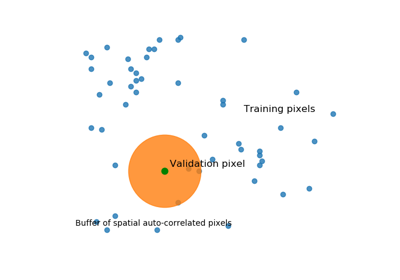
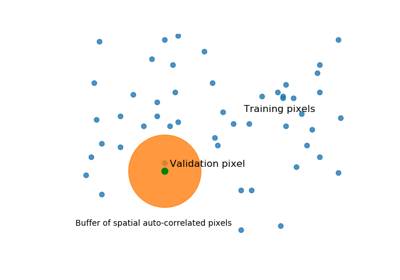
Fix random seed

diff --git a/museotoolbox/crossValidation/crossValidationClass.py b/museotoolbox/crossValidation/crossValidationClass.py
@@ -133,8 +133,6 @@ class distanceCV:
             while completeTrain is False:
                 if self.nTries < 100:
                     emptyTrain = False
-
-                    np.random.seed(self.random_state)
                     #self.random_state += 1
                     if self.verbose:
                         print(53 * '=')
@@ -165,6 +163,7 @@ class distanceCV:
                             currentCT = np.logical_and(
                                 self.y == C, self.mask == 1)
 
+                        np.random.seed(self.random_state)
                         self.ROI = np.random.permutation(
                             np.where(currentCT)[0])[0]
                         # When doing Leave-One-Out per subgroup
@@ -175,6 +174,7 @@ class distanceCV:
                                       ' for label ' +
                                       str(C))
 
+                            np.random.seed(self.random_state)
                             self.ROI = np.random.permutation(CT)[0]
                             # Tstand = self.distanceLabel[np.isin(
                             #   self.distanceLabel, np.unique(self.groups[CT]))]
@@ -302,7 +302,6 @@ class randomPerClass:
         if self.iterPos < self.n_splits + 1:
             if self.iterPos % 2 == 1 and self.train_size == 0.5:
                 self.mask[:] = 1
-            np.random.seed(self.random_state)
             train, valid = [np.asarray(
                 [], dtype=int), np.asarray([], dtype=int)]
             for C in np.unique(self.y):
@@ -402,8 +401,6 @@ class groupCV:
                 Ycurrent = np.where(np.array(self.y) == C)[0]
                 Ystands = np.array(self.groups)[Ycurrent]
 
-                np.random.seed(self.random_state)
-                # Only choose an unselected stand
                 #YTF = np.array(self.y) == i
                 Ystand = np.unique(Ystands)
                 if len(Ystands[self.mask[Ycurrent]]) == 0:
@@ -412,6 +409,7 @@ class groupCV:
                     self.mask[:] = 1
 
                 if self.valid_size == 1:
+                    np.random.seed(self.random_state)
                     selectedStand = np.random.permutation(
                         Ystands[self.mask[Ycurrent]])[0]
 
@@ -419,9 +417,11 @@ class groupCV:
                     if self.valid_size == 0.5 and self.iterPos % 2 == 0:
                         # If 50%, real CV with train/valid reverse at next iter
                         # to valid/train
+                        np.random.seed(self.random_state)
                         selectedStand = np.random.permutation(
                             Ystands[self.mask[Ycurrent]])
                     else:
+                        np.random.seed(self.random_state)
                         selectedStand = np.random.permutation(
                             Ystand)[:int(len(Ystand) * self.valid_size)]
                 if self.verbose:

diff --git a/docs/source/auto_examples/learnTools/learnWithRFandRS50.py b/docs/source/auto_examples/learnTools/learnWithRFandRS50.py
@@ -38,8 +38,7 @@ classifier = RandomForestClassifier(random_state=12,n_jobs=-1)
 # Start learning
 # ---------------------------
 
-
-LAP = learnAndPredict(n_jobs=-1)
+LAP = learnAndPredict(n_jobs=1)
 LAP.learnFromRaster(raster,vector,field,cv=RS50,
                     classifier=classifier,param_grid=dict(n_estimators=[100,200]))
 

diff --git a/museotoolbox/crossValidation/_sampleSelection.py b/museotoolbox/crossValidation/_sampleSelection.py
@@ -14,9 +14,9 @@
 # =============================================================================
 
 from __future__ import absolute_import, print_function
+import os
 from .. import rasterTools, vectorTools
 from . import crossValidationClass
-import os
 import numpy as np
 
 

diff --git a/docs/source/auto_examples/learnTools/learnWithRFandCompareCV.rst b/docs/source/auto_examples/learnTools/learnWithRFandCompareCV.rst
@@ -115,26 +115,26 @@ Create list of different CV
     Fitting 5 folds for each of 2 candidates, totalling 10 fits
     best n_estimators : 100
     Kappa for RandomCV
-    0.946087457975
-    0.938072786994
-    0.946087457975
-    0.938072786994
-    0.946087457975
+    0.942644673136
+    0.943543076294
+    0.942644673136
+    0.943543076294
+    0.942644673136
     ====================
     Fitting 5 folds for each of 2 candidates, totalling 10 fits
-    best n_estimators : 200
+    best n_estimators : 100
     Kappa for LeavePSubGroupOut
-    0.706085856491
-    0.768551375852
-    0.706085856491
-    0.768551375852
-    0.706085856491
+    0.635516273208
+    0.785197425099
+    0.635516273208
+    0.785197425099
+    0.635516273208
     ====================
     Fitting 2 folds for each of 2 candidates, totalling 4 fits
-    best n_estimators : 100
+    best n_estimators : 200
     Kappa for LeaveOneSubGroupOut
-    0.820225947589
-    0.870793213473
+    0.850441056012
+    0.802295897628
     ====================
     Fitting 3 folds for each of 2 candidates, totalling 6 fits
     best n_estimators : 100
@@ -169,7 +169,7 @@ Plot example
 
 
 
-**Total running time of the script:** ( 0 minutes  28.654 seconds)
+**Total running time of the script:** ( 0 minutes  28.539 seconds)
 
 
 .. _sphx_glr_download_auto_examples_learnTools_learnWithRFandCompareCV.py:

diff --git a/docs/source/auto_examples/charts/plotConfusionAcc.rst b/docs/source/auto_examples/charts/plotConfusionAcc.rst
@@ -130,8 +130,8 @@ Get kappa from each fold
 
  .. code-block:: none
 
-    0.943624260619
-    0.941189905189
+    0.942788144685
+    0.943137435267
 
 
 Get each confusion matrix from folds
@@ -157,14 +157,14 @@ Get each confusion matrix from folds
  .. code-block:: none
 
     [[3681   77    2   11    0]
-     [  70 1064    1   12    0]
+     [  71 1064    1   11    0]
      [   0    0 1140    0    0]
-     [   8   22    3  230    0]
-     [   3    0    1    0    0]]
-    [[3693   67    1   10    0]
-     [  87 1044    0   15    0]
+     [   9   21    3  230    0]
+     [   4    0    0    0    0]]
+    [[3688   73    1    9    0]
+     [  79 1053    0   14    0]
      [   2    0 1137    0    0]
-     [  12   17    1  232    0]
+     [  13   17    1  231    0]
      [   4    0    0    0    0]]
 
 
@@ -225,7 +225,7 @@ Plot confusion matrix and normalize per class
 
 
 
-**Total running time of the script:** ( 0 minutes  2.917 seconds)
+**Total running time of the script:** ( 0 minutes  3.010 seconds)
 
 
 .. _sphx_glr_download_auto_examples_charts_plotConfusionAcc.py:

diff --git a/docs/source/auto_examples/charts/plotConfusionF1.rst b/docs/source/auto_examples/charts/plotConfusionF1.rst
@@ -129,8 +129,8 @@ Get kappa from each fold
 
  .. code-block:: none
 
-    0.943887334032
-    0.941668488805
+    0.942286542263
+    0.940921832904
 
 
 Get each confusion matrix from folds
@@ -156,14 +156,14 @@ Get each confusion matrix from folds
  .. code-block:: none
 
     [[3679   79    2   11    0]
-     [  70 1064    1   12    0]
+     [  65 1070    1   11    0]
      [   0    0 1140    0    0]
-     [   8   23    3  229    0]
-     [   3    1    0    0    0]]
-    [[3695   64    1   11    0]
-     [  86 1047    0   13    0]
+     [   9   20    3  231    0]
+     [   3    0    1    0    0]]
+    [[3685   74    1   11    0]
+     [  84 1047    0   15    0]
      [   2    0 1137    0    0]
-     [  12   17    1  232    0]
+     [  10   18    1  233    0]
      [   4    0    0    0    0]]
 
 
@@ -215,7 +215,7 @@ Plot confusion matrix and normalize per class
 
 
 
-**Total running time of the script:** ( 0 minutes  4.801 seconds)
+**Total running time of the script:** ( 0 minutes  4.252 seconds)
 
 
 .. _sphx_glr_download_auto_examples_charts_plotConfusionF1.py:

diff --git a/docs/source/auto_examples/charts/plotConfusion.rst b/docs/source/auto_examples/charts/plotConfusion.rst
@@ -128,8 +128,8 @@ Get kappa from each fold
 
  .. code-block:: none
 
-    0.943098549541
-    0.940662870654
+    0.942282216704
+    0.940897043243
 
 
 Get each confusion matrix from folds
@@ -155,14 +155,14 @@ Get each confusion matrix from folds
  .. code-block:: none
 
     [[3679   79    2   11    0]
-     [  72 1063    1   11    0]
+     [  69 1066    1   11    0]
      [   0    0 1140    0    0]
-     [   9   20    3  231    0]
+     [   8   21    3  231    0]
      [   4    0    0    0    0]]
-    [[3690   68    1   12    0]
-     [  83 1048    0   15    0]
+    [[3690   71    1    9    0]
+     [  82 1050    0   14    0]
      [   2    0 1137    0    0]
-     [  11   19    1  231    0]
+     [  12   18    1  231    0]
      [   4    0    0    0    0]]
 
 
@@ -212,7 +212,7 @@ Plot confusion matrix and normalize per class
 
 
 
-**Total running time of the script:** ( 0 minutes  6.836 seconds)
+**Total running time of the script:** ( 0 minutes  6.391 seconds)
 
 
 .. _sphx_glr_download_auto_examples_charts_plotConfusion.py:

diff --git a/docs/source/auto_examples/crossValidation/SpatialLeaveOnePixelOut.rst b/docs/source/auto_examples/crossValidation/SpatialLeaveOnePixelOut.rst
@@ -102,14 +102,14 @@ n_splits will be the number  of the least populated class
 
  .. code-block:: none
 
-    (9553,) (5,)
-    (9557,) (5,)
-    (9308,) (5,)
-    (9312,) (5,)
-    (8531,) (5,)
-    (8531,) (5,)
-    (10168,) (5,)
-    (10168,) (5,)
+    (10257,) (5,)
+    (9644,) (5,)
+    (9214,) (5,)
+    (9214,) (5,)
+    (8101,) (5,)
+    (8010,) (5,)
+    (9935,) (5,)
+    (9935,) (5,)
 
 
 Draw image
@@ -144,7 +144,7 @@ Draw image
 
 
 
-**Total running time of the script:** ( 0 minutes  1.328 seconds)
+**Total running time of the script:** ( 0 minutes  1.290 seconds)
 
 
 .. _sphx_glr_download_auto_examples_crossValidation_SpatialLeaveOnePixelOut.py:

diff --git a/docs/source/auto_examples/rasterTools/modalClass.rst b/docs/source/auto_examples/rasterTools/modalClass.rst
@@ -68,13 +68,13 @@ Initialize rasterMath with raster
 
  .. code-block:: none
 
-    [[ 69  69  41]
-     [119 119  91]
-     [141 141 113]
+    [[175 165 153]
+     [ 69  59  47]
+     [174 166 153]
      ..., 
-     [ 72  59  42]
-     [ 54  41  24]
-     [ 63  50  33]]
+     [197 191 179]
+     [127 123 114]
+     [168 165 160]]
 
 
 Let's suppose you want compute the modal classification between several predictions
@@ -151,7 +151,7 @@ Plot result
 
 
 
-**Total running time of the script:** ( 0 minutes  4.038 seconds)
+**Total running time of the script:** ( 0 minutes  4.545 seconds)
 
 
 .. _sphx_glr_download_auto_examples_rasterTools_modalClass.py:

diff --git a/docs/source/auto_examples/rasterTools/rasterMath.rst b/docs/source/auto_examples/rasterTools/rasterMath.rst
@@ -69,13 +69,13 @@ Initialize rasterMath with raster
 
  .. code-block:: none
 
-    [[ 69  69  41]
-     [119 119  91]
-     [141 141 113]
+    [[166 153 136]
+     [193 180 161]
+     [170 153 133]
      ..., 
-     [ 72  59  42]
-     [ 54  41  24]
-     [ 63  50  33]]
+     [170 162 143]
+     [103  90  73]
+     [180 165 146]]
 
 
 Let's suppose you want compute the difference between blue and green band
@@ -156,7 +156,7 @@ Plot result
 
 
 
-**Total running time of the script:** ( 0 minutes  0.392 seconds)
+**Total running time of the script:** ( 0 minutes  0.448 seconds)
 
 
 .. _sphx_glr_download_auto_examples_rasterTools_rasterMath.py:

diff --git a/docs/source/auto_examples/learnTools/learnWithRFandRS50.rst b/docs/source/auto_examples/learnTools/learnWithRFandRS50.rst
@@ -89,8 +89,7 @@ Start learning
 .. code-block:: python
 
 
-
-    LAP = learnAndPredict(n_jobs=-1)
+    LAP = learnAndPredict(n_jobs=1)
     LAP.learnFromRaster(raster,vector,field,cv=RS50,
                         classifier=classifier,param_grid=dict(n_estimators=[100,200]))
 
@@ -275,7 +274,7 @@ Plot example
 
 
 
-**Total running time of the script:** ( 0 minutes  28.267 seconds)
+**Total running time of the script:** ( 0 minutes  42.658 seconds)
 
 
 .. _sphx_glr_download_auto_examples_learnTools_learnWithRFandRS50.py:

diff --git a/docs/source/auto_examples/crossValidation/SpatialLeaveOneSubGroupOut.rst b/docs/source/auto_examples/crossValidation/SpatialLeaveOneSubGroupOut.rst
@@ -114,8 +114,8 @@ n_splits will be the number  of the least populated class
 
  .. code-block:: none
 
-    (8105,) (3329,)
-    (8473,) (4174,)
+    (10257,) (2390,)
+    (10257,) (2390,)
 
 
 Draw image
@@ -150,7 +150,7 @@ Draw image
 
 
 
-**Total running time of the script:** ( 0 minutes  0.106 seconds)
+**Total running time of the script:** ( 0 minutes  0.101 seconds)
 
 
 .. _sphx_glr_download_auto_examples_crossValidation_SpatialLeaveOneSubGroupOut.py:
